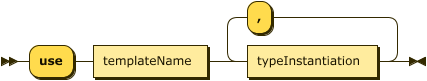
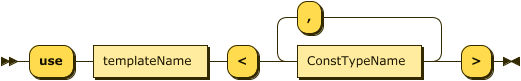
Updated syntax diagrams Added relationship check to template instantiation

Changed region(s): [[0.0, 0.1975, 1.0, 0.9877], [0.5176, 0.0, 0.6393, 0.4444]]

diff --git a/src/main/resources/syntax/index.html b/src/main/resources/syntax/index.html
@@ -459,11 +459,11 @@
             
             <li><a href="#TemplateStmt" title="TemplateStmt">TemplateStmt</a></li>
             </ul>
-         </p><br><p style="font-size: 14px; font-weight:bold"><a name="UseStmt">UseStmt:</a></p><img border="0" src="diagram/UseStmt.png" height="81" width="427" usemap="#UseStmt.map"><map name="UseStmt.map"><area shape="rect" coords="93,45,207,77" href="#templateName" title="templateName"><area shape="rect" coords="247,45,377,77" href="#typeInstantiation" title="typeInstantiation"></map><p>
+         </p><br><p style="font-size: 14px; font-weight:bold"><a name="UseStmt">UseStmt:</a></p><img border="0" src="diagram/UseStmt.png" height="81" width="521" usemap="#UseStmt.map"><map name="UseStmt.map"><area shape="rect" coords="93,45,207,77" href="#templateName" title="templateName"><area shape="rect" coords="297,45,421,77" href="#ConstTypeName" title="ConstTypeName"></map><p>
          
          <div class="ebnf"><code>
                
-               <div><a href="#UseStmt" title="UseStmt" shape="rect">UseStmt</a>&nbsp;&nbsp;::= 'use' <a href="#templateName" title="templateName" shape="rect">templateName</a> <a href="#typeInstantiation" title="typeInstantiation" shape="rect">typeInstantiation</a> ( ',' <a href="#typeInstantiation" title="typeInstantiation" shape="rect">typeInstantiation</a> )*</div></code></div>
+               <div><a href="#UseStmt" title="UseStmt" shape="rect">UseStmt</a>&nbsp;&nbsp;::= 'use' <a href="#templateName" title="templateName" shape="rect">templateName</a> '&lt;' <a href="#ConstTypeName" title="ConstTypeName" shape="rect">ConstTypeName</a> ( ',' <a href="#ConstTypeName" title="ConstTypeName" shape="rect">ConstTypeName</a> )* '&gt;'</div></code></div>
          </p>
       
       <p>referenced by:
@@ -471,21 +471,6 @@
          <ul>
             
             <li><a href="#quplaStmt" title="quplaStmt">quplaStmt</a></li>
-            </ul>
-         </p><br><p style="font-size: 14px; font-weight:bold"><a name="typeInstantiation">typeInstantiation:</a></p><img border="0" src="diagram/typeInstantiation.png" height="81" width="323" usemap="#typeInstantiation.map"><map name="typeInstantiation.map"><area shape="rect" coords="99,45,223,77" href="#ConstTypeName" title="ConstTypeName"></map><p>
-         
-         <div class="ebnf"><code>
-               
-               <div><a href="#typeInstantiation" title="typeInstantiation" shape="rect">typeInstantiation</a></div>
-               
-               <div>&nbsp;&nbsp;&nbsp;&nbsp;&nbsp;&nbsp;&nbsp;&nbsp;&nbsp;::= '&lt;' <a href="#ConstTypeName" title="ConstTypeName" shape="rect">ConstTypeName</a> ( ',' <a href="#ConstTypeName" title="ConstTypeName" shape="rect">ConstTypeName</a> )* '&gt;'</div></code></div>
-         </p>
-      
-      <p>referenced by:
-         
-         <ul>
-            
-            <li><a href="#UseStmt" title="UseStmt">UseStmt</a></li>
             </ul>
          </p><br><p style="font-size: 14px; font-weight:bold"><a name="entityAlias">entityAlias:</a></p><img border="0" src="diagram/entityAlias.png" height="37" width="377" usemap="#entityAlias.map"><map name="entityAlias.map"><area shape="rect" coords="79,1,171,33" href="#entityName" title="entityName"><area shape="rect" coords="243,1,347,33" href="#moduleName" title="moduleName"></map><p>
          
@@ -859,11 +844,11 @@
             
             <li><a href="#TypeExpr" title="TypeExpr">TypeExpr</a></li>
             
+            <li><a href="#UseStmt" title="UseStmt">UseStmt</a></li>
+            
             <li><a href="#funcParam" title="funcParam">funcParam</a></li>
             
             <li><a href="#funcSignature" title="funcSignature">funcSignature</a></li>
-            
-            <li><a href="#typeInstantiation" title="typeInstantiation">typeInstantiation</a></li>
             </ul>
          </p><br><p style="font-size: 14px; font-weight:bold"><a name="NameExpr">NameExpr:</a></p><img border="0" src="diagram/NameExpr.png" height="37" width="115" usemap="#NameExpr.map"><map name="NameExpr.map"><area shape="rect" coords="29,1,85,33" href="#name" title="name"></map><p>
          

diff --git a/src/main/java/org/iota/qupla/qupla/statement/UseStmt.java b/src/main/java/org/iota/qupla/qupla/statement/UseStmt.java
@@ -11,6 +11,7 @@ import org.iota.qupla.qupla.parser.Tokenizer;
 
 public class UseStmt extends BaseExpr
 {
+  public boolean automatic;
   public TemplateStmt template;
   public final ArrayList<BaseExpr> typeArgs = new ArrayList<>();
   public final ArrayList<BaseExpr> types = new ArrayList<>();
@@ -47,6 +48,7 @@ public class UseStmt extends BaseExpr
 
   public UseStmt(final TemplateStmt template, final FuncExpr func)
   {
+    automatic = true;
     module = func.module;
     origin = func.origin;
     name = template.name;
@@ -83,13 +85,59 @@ public class UseStmt extends BaseExpr
 
     for (final BaseExpr typeArg : typeArgs)
     {
-      if (!typeArg.analyzed())
+      if (!typeArg.wasAnalyzed())
       {
         typeArg.analyze();
       }
     }
 
-    generateTypes();
+    // set up use-specific types
+    for (final BaseExpr type : template.types)
+    {
+      final BaseExpr useType = type.clone();
+      useType.analyze();
+      types.add(useType);
+    }
+
+    if (typeArgs.size() == 1)
+    {
+      // check relationship expression
+      if (template.relations.size() != 0)
+      {
+        int totalSize = 0;
+        for (final BaseExpr relation : template.relations)
+        {
+          boolean found = false;
+          for (final BaseExpr useType : types)
+          {
+            if (useType.name.equals(relation.name))
+            {
+              found = true;
+              totalSize += useType.size;
+              break;
+            }
+          }
+
+          if (!found)
+          {
+            relation.error("Relation type name not found: " + relation.name);
+          }
+        }
+
+        if (totalSize != typeArgs.get(0).size)
+        {
+          if (automatic)
+          {
+            // wrong template, do not instantiate any functions
+            currentModule = oldModule;
+            currentUse = oldUse;
+            return;
+          }
+
+          error("Relation sum does not match");
+        }
+      }
+    }
 
     for (final BaseExpr func : template.funcs)
     {
@@ -101,6 +149,8 @@ public class UseStmt extends BaseExpr
       module.funcs.add(useFunc);
     }
 
+    size = template.funcs.size();
+
     currentModule = oldModule;
     currentUse = oldUse;
   }
@@ -109,19 +159,5 @@ public class UseStmt extends BaseExpr
   public BaseExpr clone()
   {
     return new UseStmt(this);
-  }
-
-  public void generateTypes()
-  {
-    // set up template types
-    for (final BaseExpr type : template.types)
-    {
-      final TypeStmt useType = (TypeStmt) type.clone();
-      useType.analyze();
-      types.add(useType);
-    }
-
-    //TODO check relationship expression
-
   }
 }

diff --git a/src/main/java/org/iota/qupla/qupla/expression/FuncExpr.java b/src/main/java/org/iota/qupla/qupla/expression/FuncExpr.java
@@ -65,7 +65,7 @@ public class FuncExpr extends BaseExpr
   @Override
   public void analyze()
   {
-    if (analyzed())
+    if (wasAnalyzed())
     {
       return;
     }
@@ -153,8 +153,13 @@ public class FuncExpr extends BaseExpr
           continue;
         }
 
-        new UseStmt(template, this).analyze();
-        return findEntity(FuncStmt.class, what);
+        final UseStmt autoUse = new UseStmt(template, this);
+        autoUse.analyze();
+        if (autoUse.wasAnalyzed())
+        {
+          // this template was acceptable
+          return findEntity(FuncStmt.class, what);
+        }
       }
     }
 
@@ -180,8 +185,13 @@ public class FuncExpr extends BaseExpr
             continue;
           }
 
-          new UseStmt(template, this).analyze();
-          return findEntity(FuncStmt.class, what);
+          final UseStmt autoUse = new UseStmt(template, this);
+          autoUse.analyze();
+          if (autoUse.wasAnalyzed())
+          {
+            // this template was acceptable
+            return findEntity(FuncStmt.class, what);
+          }
         }
       }
     }

diff --git a/src/main/java/org/iota/qupla/qupla/expression/base/BaseExpr.java b/src/main/java/org/iota/qupla/qupla/expression/base/BaseExpr.java
@@ -63,11 +63,6 @@ public abstract class BaseExpr
 
   public abstract void analyze();
 
-  public boolean analyzed()
-  {
-    return size != 0;
-  }
-
   public BaseExpr clone(final BaseExpr expr)
   {
     return expr == null ? null : expr.clone();
@@ -122,7 +117,7 @@ public abstract class BaseExpr
     {
       if (entity.name.equals(name))
       {
-        if (!entity.analyzed())
+        if (!entity.wasAnalyzed())
         {
           entity.analyze();
         }
@@ -182,5 +177,10 @@ public abstract class BaseExpr
   public void warning(final String message)
   {
     log("WARNING: " + message);
+  }
+
+  public boolean wasAnalyzed()
+  {
+    return size != 0;
   }
 }

diff --git a/src/main/java/org/iota/qupla/qupla/statement/FuncStmt.java b/src/main/java/org/iota/qupla/qupla/statement/FuncStmt.java
@@ -101,7 +101,7 @@ public class FuncStmt extends BaseExpr
   @Override
   public void analyze()
   {
-    if (analyzed())
+    if (wasAnalyzed())
     {
       return;
     }
@@ -178,12 +178,6 @@ public class FuncStmt extends BaseExpr
   }
 
   @Override
-  public boolean analyzed()
-  {
-    return analyzed;
-  }
-
-  @Override
   public BaseExpr clone()
   {
     return new FuncStmt(this);
@@ -240,5 +234,11 @@ public class FuncStmt extends BaseExpr
   public void toStringify()
   {
     printer.evalFuncBodySignature(this);
+  }
+
+  @Override
+  public boolean wasAnalyzed()
+  {
+    return analyzed;
   }
 }
